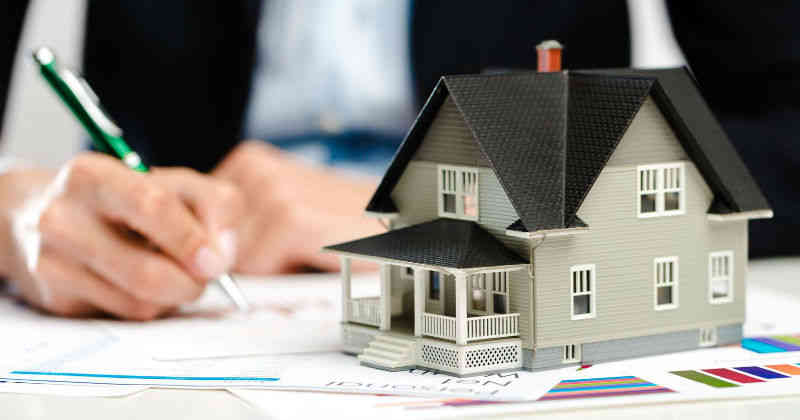
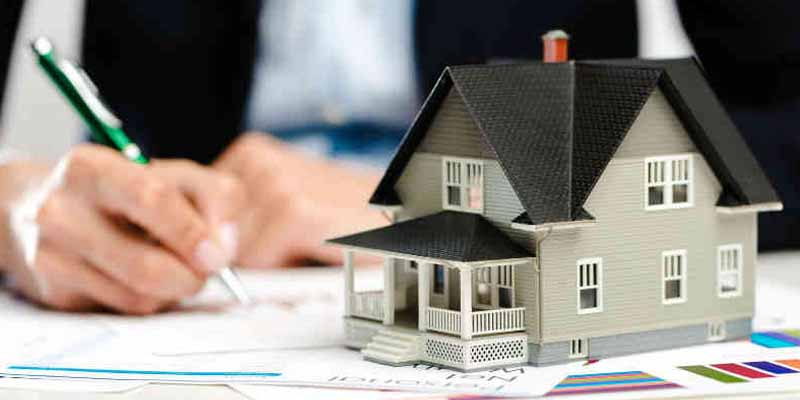
actualizada final

diff --git a/css/css.css b/css/css.css
@@ -116,7 +116,7 @@ body{
 	box-shadow: 1px 1px 3px #272822;
 	background-color: rgb(255, 255, 255);
 	border-radius: 8px;;
-	padding: .5em;
+	padding: .2em;
 	transform: rotate(-15deg);
 
 	transition: all 500ms ease;
@@ -125,6 +125,11 @@ body{
 .redes_container .redes_sociales .link_icon:hover{
 	font-size: 3em;
 	transform: rotate(0deg);
+}
+.redes_container .redes_sociales .maps{
+	width: 1.5em;
+	padding: 0;
+	margin: 0;
 }
 
 
@@ -137,26 +142,29 @@ body{
 	margin: 1em 0;
 	border-radius: 10px;
 	overflow: hidden;
-	border: 1px solid #A6E22E;
-	/* background-color: red;; */
-	
+	/* border: 1px solid #A6E22E;	 */
 }
 .section_dinamico{
 	display: flex;
 	justify-content: center;
 	align-items: center;
 	text-align: center;
+	margin-bottom: 1em;
 	
 }
 .section_dinamico h1{
 	position: absolute;
 	z-index: 1;
+	color: white;
+	padding: 1em;
+	text-shadow: 1px 1px 5px black;
+	border-radius: .5em;
 }
 .section_dinamico div {
 	width: 100%;
 }
 .section_dinamico img{
-	opacity: 30%;
+	opacity: 70%;
 	width: 100%;
 	z-index: 0;
 	max-height: 710px;
@@ -166,27 +174,25 @@ body{
 
 /* section articulos */
 .section_articulos{
-	background-color: #efefef;
 	display: flex;
 	flex-wrap: wrap;
 	justify-content: center;
 	text-align: center;
-	width: 100%;
-	margin-bottom: 100px;
+	padding: 0 0 100px 0;
+	margin: 0 ;
 	border-radius: 10px;
 	overflow: hidden;
-	border: 1px solid #A6E22E;
-	padding: 1em 0;
 }
 .article_container{
 	border-radius: 8px;
 	background-color: white;
 	text-align: left;
-	margin: 2em 1em .5em;
+	margin:.5em 0;
 	width: 40%;
 	display: flex;
 	flex-wrap: wrap;
 	overflow: hidden;
+	border: 1px solid #FD971F;
 }
 .article_container .dibujo{
 	position: absolute;
@@ -257,6 +263,7 @@ body{
 	width: 100%;
 	bottom: 0;
 	padding-bottom: 1em;
+	margin-top: 100px;
 }
 .footer_container .gil{
 	width: 100%;
@@ -327,15 +334,12 @@ body{
 }
 
 /* search */
-.id_page{
-	color: transparent;
-}
 .search_container{
 	margin: 0 0 100px 0;
-	padding: 2em 0;
+	padding: 0;
 	transform: translate(20em 0);
 	transition: all 3000ms ease-in-out;
-	background-color: #f7f7f7;
+	background-color: white;
 }
 .search_total{
 	position: fixed;
@@ -422,14 +426,21 @@ body{
 	}
 	.redes_container .redes_sociales .link_icon{
 		margin: .2em .3em;
-		padding: .5em;
-		font-size: 1.5em;
+		padding: .3em;
+		font-size: 2em;
+	}
+	.section_dinamico{
+		margin: 1em .5em;
 	}
 	.section_dinamico h1{
 		font-size: .8em;
+		width: 90%;
 	}
 	.section_dinamico img{
-		max-height: 180px;
+		width: 100%;
+	}
+	.section_articulos{
+		margin: 0 .5em;
 	}
 	.article_container{
 		width: 100%;
@@ -463,7 +474,7 @@ body{
 		font-size: 1.2em;
 	}
 	.section_dinamico img{
-		max-height: 300px;
+		width: 100%;
 	}
 	.item_item{
 		width: 45%;
@@ -501,14 +512,29 @@ body{
 	.nav_container .ul_container2{
 		width: auto;
 	}
+	.section_dinamico div{
+		display: flex;
+		width: 100%;
+		max-width: 800px;
+		text-align: center;
+		justify-content: center;
+	}
 	.section_dinamico h1{
 		font-size: 1.5em;
+		width: 90%;
+		max-width: 800px;
 	}
 	.section_dinamico img{
-		max-height: 400px;
+		width: 100%;
+		max-width: 800px;
+		margin: 0 auto;
+	}
+	.section_articulos{
+		justify-content: space-around;
 	}
 	.article_container{
 		width: 45%;
+		margin: .5em;
 	}
 	.search_table{
 	padding: 2em;
@@ -553,27 +579,29 @@ body{
 
 	.section_dinamico h1{
 		font-size: 1.8em;
+		width: 100%;
+		padding: 0 1em;
 	}
 	.section_dinamico img{
-		max-height: 520px;
+		width: 100%;
+		max-width: 800px;
 	}
 	.section_articulos{
-		justify-content: space-around;
+		justify-content: center;
 		max-width: 1365px;
-		margin: 0 auto;
 		width: 100%;
 	}
 	.article_container{
-		min-width: 30%;
-		width: 30%;
+		width: 33%;
+		margin: .5em;
 	}
 	.article_container:nth-child(7){order:1;width: 30%;}
 	.article_container:nth-child(1){order:2;width: 30%;}
 	.article_container:nth-child(2){order:3;width: 30%;}
 	.article_container:nth-child(3){order:4;width: 45%;}
 	.article_container:nth-child(4){order:13;width: 45%;}
-	.article_container:nth-child(5){order:14;width: 30%;}
-	.article_container:nth-child(6){order:15;width: 60%;}
+	.article_container:nth-child(5){order:14;width: 35%;}
+	.article_container:nth-child(6){order:15;width: 55%;}
 
 	.item_item{
 		width: 22%;
@@ -588,12 +616,11 @@ body{
 	}
 	.section_dinamico h1{
 		font-size: 2em;
-	}
-	.section_dinamico img{
-		max-height: 670px;
+		max-width: 800px;
 	}
 	.section_articulos{
 		padding: 0 2em;
+		margin: 0 0 100px 0;
 	}
 	.item_item{
 		width: 15%;

diff --git a/js/dinamico.js b/js/dinamico.js
@@ -1,20 +1,37 @@
 const objects = [
     {
-        image: "<img src='./img/imagenDemo.jpg'>",
-        description: "Grupo Inmobiliario Latorre <br> Empresa conformada desde hace más de 15 años <br> Asesorando a nuestros clientes para que hagan <br> el mejor negocio de su vida ",
+        image: "<img src='./img/foto1.jpg'>",
+        description: "Grupo Inmobiliario Latorre <br> Empresa conformada desde hace más de 15 años. <br> Asesorando a nuestros clientes para que hagan <br> el mejor negocio de su vida ",
     },
     {
-        image: "<img src='./img/h2.png'>",
-        description: "Grupo Inmobiliario Latorre <br> Empresa conformada desde hace más de 16 años <br> Asesorando a nuestros clientes para que hagan <br> el mejor negocio de su vida ",
+        image: "<img src='./img/foto2.jpg'>",
+        description: "Venta de inmuebles <br> brindamos la asesoria que usted necesita <br> Negociación segura y eficaz para propietarios y compradores",
+    },
+    {
+        image: "<img src='./img/foto3.jpg'>",
+        description: "De acuerdo a sus necesidades y requerimientos <br> planteamos la mejor estrategia para que su inversion sea rentable",
+    },
+    {
+        image: "<img src='./img/foto4.jpg'>",
+        description: "Amplio catalogo, en casas, apartamentos, <br> bodegas, fincas, locales, garajes, <br> solo busque por la dirección en <br> Google Maps, y puede ver la ubicacion del predio",
+    },
+    {
+        image: "<img src='./img/foto5.jpg'>",
+        description: "Amplio catalogo, en casas, apartamentos, bodegas, fincas, locales, garajes, <br> solo busque por la dirección en Google Maps, y puede ver la ubicacion del predio",
+    },
+    {
+        image: "<img src='./img/foto6.jpg'>",
+        description: "Busque segun la zona en la que quiera hacer la inversion, encuentre y agendamos una cita para hacer la visita, y enseñarte el proceso de alquiler o compra <br>  ",
+    },
+    {
+        image: "<img src='./img/gil.jpg'>",
+        description: "",
     },
     // {
     //     image: "<img src='./img/imagenDemo.jpg'>",
-    //     description: "",
+    //     description: "Amplio catalogo, en casas, apartamentos, bodegas, fincas, locales, garajes, <br> solo busque por la dirección en Google Maps, y puede ver la ubicacion del predio",
     // },
-    // {
-    //     image: "<img src='./img/imagenDemo.jpg'>",
-    //     description: "",
-    // },
+
 ];
 
 
@@ -33,7 +50,7 @@ function timex() {
     if (counter != 0) {
         setTimeout(() => {
             send();
-        }, 2000)
+        }, 4000)
     } else {
         setTimeout(() => {
             send();

diff --git a/js/nav.js b/js/nav.js
@@ -31,7 +31,7 @@ const logo_create = () => {
     a.href = `index.html`;
     let img = document.createElement('img');
     img.className = 'logo';
-    img.src = './img/gil.png';
+    img.src = './img/gil.jpg';
     img.alt = 'Grupo Inmobiliario Latorre';
     document.getElementById('logo_container').appendChild(a).appendChild(img)
 }
@@ -57,7 +57,8 @@ const sociales_create = () => {
     youtube.href = `https://youtube.com/`;
 
     const googleMaps = document.createElement('a');
-    googleMaps.className = " link_icon icon-mobile"
+    googleMaps.className = " link_icon"
+    googleMaps.innerHTML = "<img class='maps' src='./img/GoogleMaps.svg'/> "
     googleMaps.target = '_blank';
     googleMaps.href = `https://www.google.com/maps/`;
     googleMaps.alt = `google.com maps`;

diff --git a/index.html b/index.html
@@ -34,7 +34,7 @@
 		<div class="container_dinamic">
 			<section class="section_dinamico" id="section_dinamico">
 				<p>mostrando informacion en la section dinamico</p>
-				<img src="./img/h2.png" alt="">
+				<img src="./img/h2.jpg" alt="">
 			</section>
 		</div>	
 
